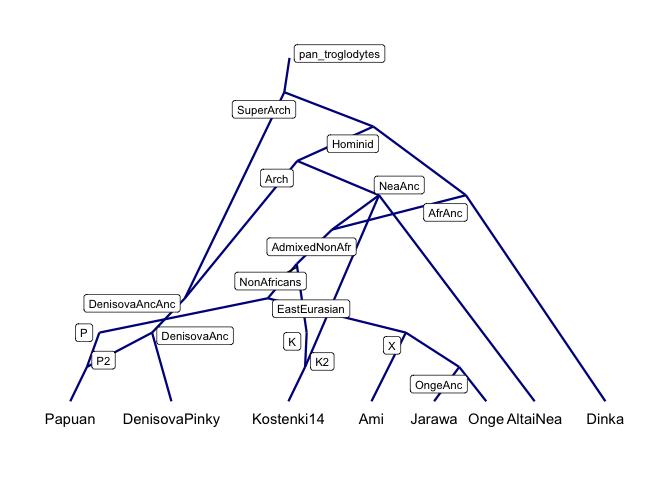
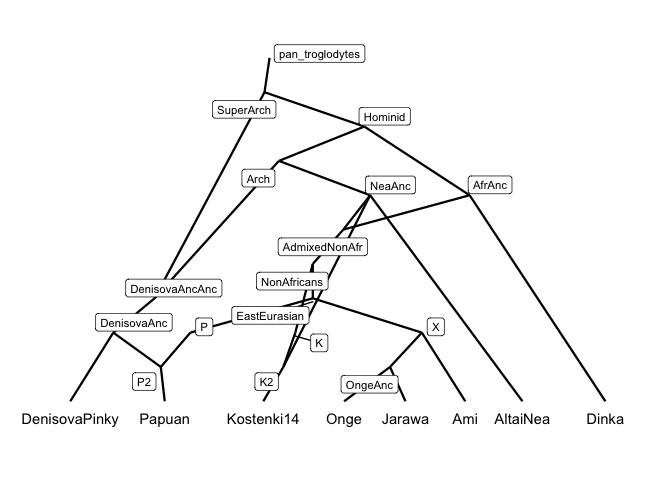
getting package check to work

diff --git a/README.md b/README.md
@@ -60,10 +60,23 @@ graph %>%
 <img src="man/figures/README-unnamed-chunk-1-1.png" width="100%" />
 
 ``` r
+library(magrittr)
+library(adrift)
+
+graph <- parse_qpgraph(readr::read_file("data-raw/Basic_OngeEA_wArch.graph"))
+graph %>% 
+    make_graph_plot(edge_colour = "darkblue") %>%
+    show_leaf_labels(nudge_y = -0.5, angle = 15) %>%
+    show_inner_node_labels()
+```
+
+<img src="man/figures/README-unnamed-chunk-2-1.png" width="100%" />
+
+``` r
 graph <- parse_dot(readr::read_file("data-raw/BosGraph.dot"))
 graph %>% 
     make_graph_plot(edge_colour = "red") %>%
     show_leaf_labels(angle = -90, size = 2.8, nudge_y = -1, hjust = 0)
 ```
 
-<img src="man/figures/README-unnamed-chunk-2-1.png" width="100%" />
+<img src="man/figures/README-unnamed-chunk-3-1.png" width="100%" />
